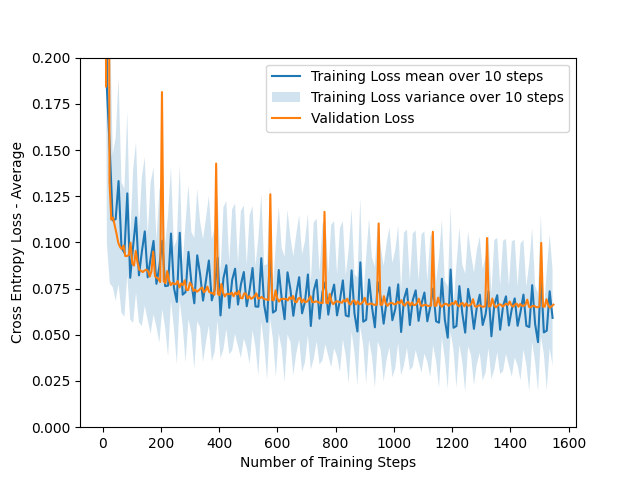
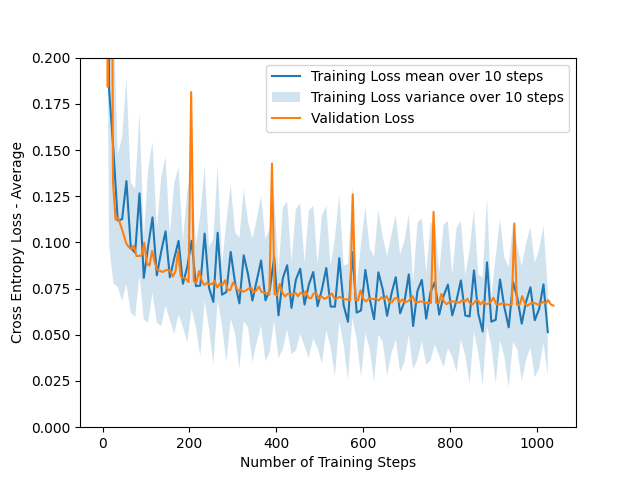
Task 3a good

diff --git a/assignment1/task3a.py b/assignment1/task3a.py
@@ -38,15 +38,22 @@ class SoftmaxModel:
         Returns:
             y: output of model with shape [batch size, num_outputs]
         """
-        z = lambda x,k: self.w.T[k].dot(x)
+        # z = lambda x,k: self.w.T[k].dot(x)
 
-        model = lambda x,k: np.exp(z(x,k))/(np.sum([np.exp(z(x,k)) for k in range(self.num_outputs)]))
+        # model = lambda x,k: np.exp(z(x,k))/(np.sum([np.exp(z(x,k)) for k in range(self.num_outputs)]))
         
-        class_probs = []
-        for i in range(self.num_outputs):
-            class_probs.append(np.apply_along_axis(model, 1, X, i))
+        # class_probs = []
+        # for i in range(self.num_outputs):
+        #     class_probs.append(np.apply_along_axis(model, 1, X, i))
         
-        return np.array(class_probs).T
+        # return np.array(class_probs).T
+        z = self.w.T.dot(X.T)
+
+        exp_z = np.exp(z)
+        sum_exp_z = np.sum(exp_z, axis=0)
+        
+        class_probs = exp_z / sum_exp_z
+        return class_probs.T
         
     def backward(self, X: np.ndarray, outputs: np.ndarray, targets: np.ndarray) -> None:
         """
@@ -97,8 +104,6 @@ def gradient_approximation_test(model: SoftmaxModel, X: np.ndarray, Y: np.ndarra
         loc=0, scale=1/model.w.shape[0]**2, size=model.w.shape)
 
     epsilon = 1e-3
-    total = model.w.shape[0]*model.w.shape[1]
-    iter = 0
     
     for i in range(model.w.shape[0]):
         for j in range(model.w.shape[1]):
@@ -121,8 +126,6 @@ def gradient_approximation_test(model: SoftmaxModel, X: np.ndarray, Y: np.ndarra
                 f"Approximation: {gradient_approximation}, actual gradient: {model.grad[i, j]}\n" \
                 f"If this test fails there could be errors in your cross entropy loss function, " \
                 f"forward function or backward function"
-        iter += 1
-        print(iter/total*100, "% done")
 
 
 def main():

diff --git a/assignment1/trainer.py b/assignment1/trainer.py
@@ -91,15 +91,15 @@ class BaseTrainer:
                     # TODO (Task 2d): Implement early stopping here.
                     # You can access the validation loss in val_history["loss"]
                     # Stop the training if the validation loss does not improve after passing through the validation set 10 times.
-                    # if global_step / num_steps_per_val > 10:
-                    #     current_check = val_history["loss"][global_step - 10 * num_steps_per_val]
+                    if global_step / num_steps_per_val > 10:
+                        current_check = val_history["loss"][global_step - 10 * num_steps_per_val]
                         
-                    #     for i in range(9, -1, -1):
-                    #         if val_history["loss"][global_step - i * num_steps_per_val] < current_check:
-                    #             break
-                    #         if i == 0:
-                    #             print("Early stopping")
-                    #             return train_history, val_history
+                        for i in range(9, -1, -1):
+                            if val_history["loss"][global_step - i * num_steps_per_val] < current_check:
+                                break
+                            if i == 0:
+                                print("Early stopping, step: ", global_step)
+                                return train_history, val_history
                     
                 global_step += 1
         return train_history, val_history
